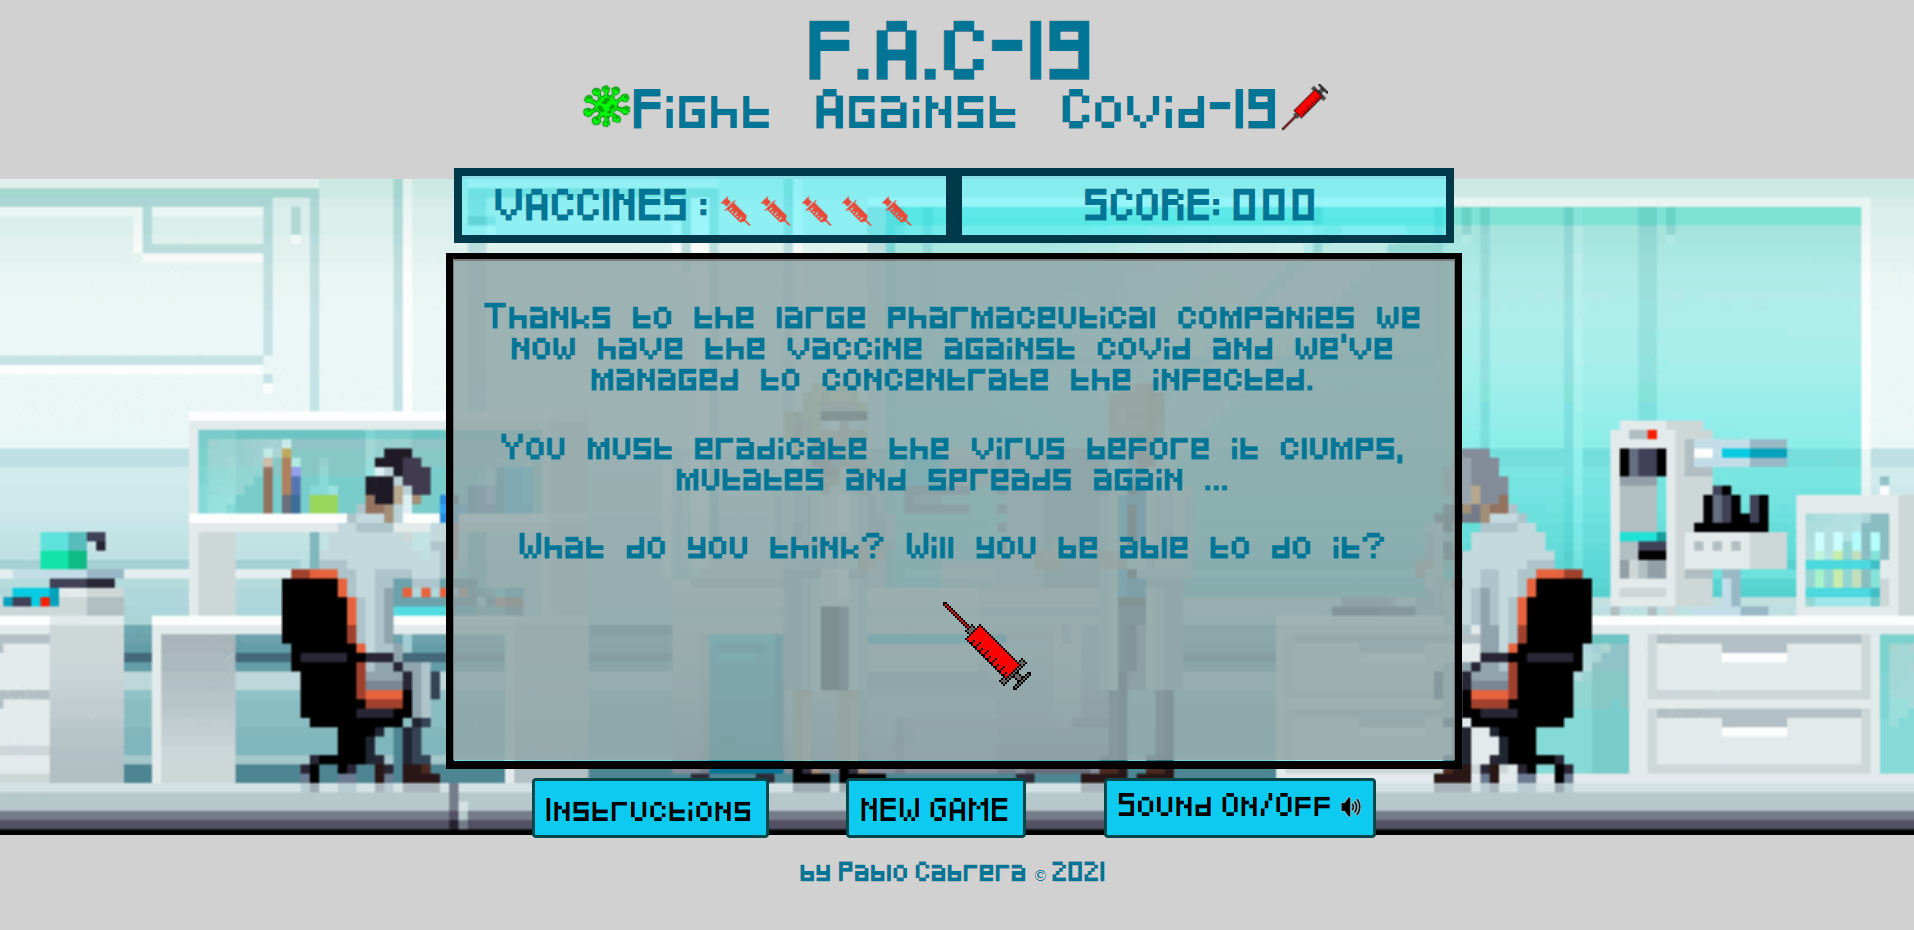
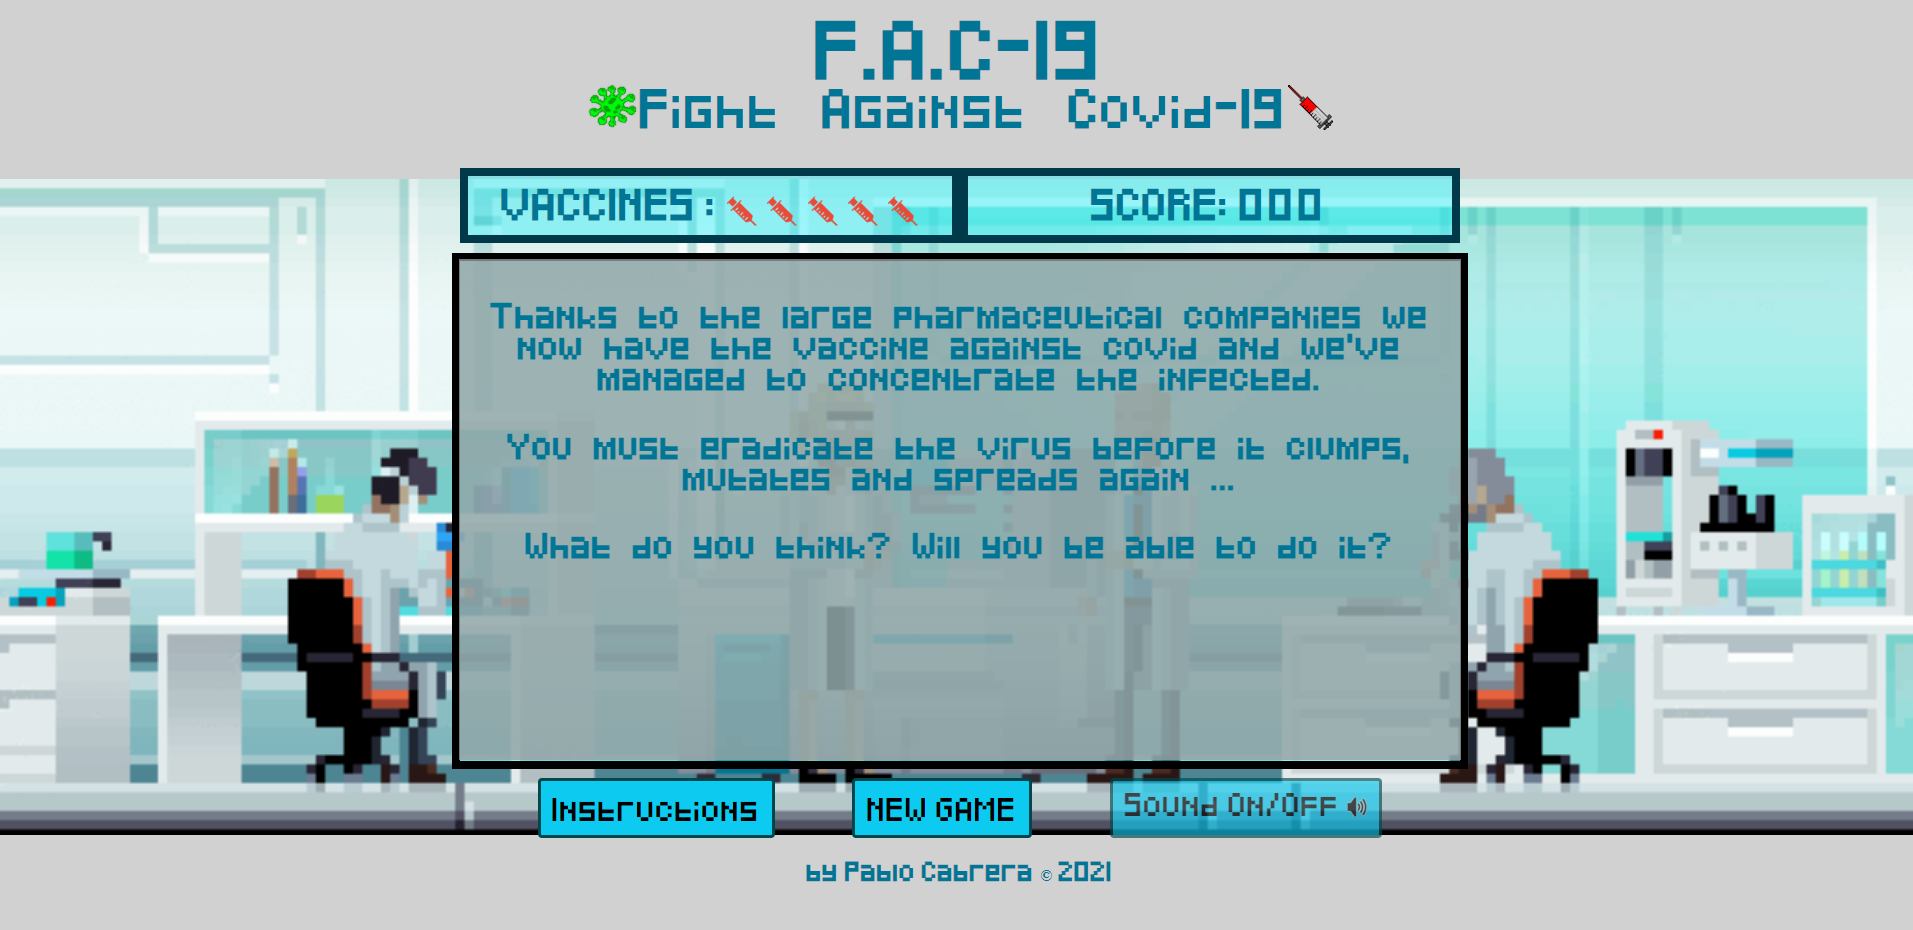
Change some smooth things on style and disabled sond button if game hasnt started

diff --git a/js/app.js b/js/app.js
@@ -34,6 +34,7 @@ window.onload = () => {
 
     const newGameButton = document.querySelector('#new-game') // NEW GAME BUTTON SELECTOR
     const soundButton = document.querySelector('#sound') // SOUND BUTTON SELECTOR FOR MUTE OR UNMUTE
+    soundButton.disabled = true
     const instructionsButton = document.querySelector('#instructions-button') // INSTRUCTIONS BUTTON SELECTOR TO DISPLAY INSTRUCTIONS
     const instructionsDiv = document.querySelector('#instructions-div') // INSTRUCTIONS DIV TO DISPLAY
     const restartButton = document.querySelector('#restart') // RESTART BUTTON TO RESTART THE GAME
@@ -47,6 +48,7 @@ window.onload = () => {
     const gameOverScreenScore = document.querySelector('#gameOver-scoreSpan') // GAMEOVER SHOW SCORE SPAN SELECTOR.
     const gameOverScreen = document.querySelector('#game-over') // GAMEOVER DIV SELECTOR.
 
+    const subtitleImage = document.querySelector('#subtitleImage') // GET THE SUBTITLE IMAGE DIV TO CHANGE IT WITH LVLS UP
     const skullImg = document.querySelector('#skull') // SKULL IMAGE SELECTOR FOR GAMEOVER.
     const lifesIMGs = document.querySelectorAll('#lifes img') // LIKES IMGS SELECTOR FOR LOOSING LIFES.
     const lifesArray = [...lifesIMGs] // COPY OF ALL IMG ELEMENTES OF LIFES.
@@ -92,8 +94,9 @@ window.onload = () => {
     const startGame = () => {
         intro.classList.add('display-none')
         instructionsDiv.classList.add("display-none")
+        soundButton.disabled = false
         loadAudios()
-        backgroundAudio.play()       
+        backgroundAudio.play()      
         updateCanvas()
     }
 
@@ -276,42 +279,49 @@ window.onload = () => {
     const changeColor = (lvl) =>{
         switch(lvl) {
             case 6:
+                subtitleImage.src = './images/Virus/blackVIRUS6.png'
                 arrayOfVirus.forEach((virus)=>{
                     virus.virusImg.src = './images/Virus/blackVIRUS6.png'
                     virus.virusDeathImage.src = './images/Virus/blackVIRUSdead6.png'
                 })
                 break
             case 5:
+                subtitleImage.src = './images/Virus/purpleVIRUS5.png'
                 arrayOfVirus.forEach((virus)=>{
                     virus.virusImg.src = './images/Virus/purpleVIRUS5.png'
                     virus.virusDeathImage.src = './images/Virus/purpleVIRUSdead5.png'
                 })
                 break
             case 4:
+                subtitleImage.src = './images/Virus/pinkVIRUS4.png'
                 arrayOfVirus.forEach((virus)=>{
                     virus.virusImg.src = './images/Virus/pinkVIRUS4.png'
                     virus.virusDeathImage.src = './images/Virus/pinkVIRUSdead4.png'
                 })
                 break
             case 3:
+                subtitleImage.src = './images/Virus/redVIRUS3.png'
                 arrayOfVirus.forEach((virus)=>{
                     virus.virusImg.src = './images/Virus/redVIRUS3.png'
                     virus.virusDeathImage.src = './images/Virus/redVIRUSdead3.png'
                 })
                 break
             case 2:
+                subtitleImage.src = './images/Virus/orangeVIRUS2.png'
                 arrayOfVirus.forEach((virus)=>{
                     virus.virusImg.src = './images/Virus/orangeVIRUS2.png'
                     virus.virusDeathImage.src = './images/Virus/orangeVIRUSdead2.png'
                 })
                 break
             case 1:
+                subtitleImage.src = './images/Virus/yellowVIRUS1.png'
                 arrayOfVirus.forEach((virus)=>{
                     virus.virusImg.src = './images/Virus/yellowVIRUS1.png'
                     virus.virusDeathImage.src = './images/Virus/yellowVIRUSdead1.png'
                 })
                 break
             default:
+                subtitleImage.src = './images/Virus/greenVIRUS.png'
                 arrayOfVirus.forEach((virus)=>{
                     virus.virusImg.src = './images/Virus/greenVIRUS.png'
                     virus.virusDeathImage.src = './images/Virus/greenVIRUSdead.png'
@@ -464,3 +474,11 @@ window.onload = () => {
         FPStoCheck = FPS
     })
 }
+
+window.addEventListener('mousedown',() => {
+    splashAudio.play()
+    mouseCursor.src ='images/syringeCLICKED.png';
+}) 
+window.addEventListener('mouseup',() => {
+    mouseCursor.src ='images/syringeUNCLICKED.png';
+})

diff --git a/index.html b/index.html
@@ -17,11 +17,11 @@
     <header>
         <h1 id="title">F.A.C-19</h1>
         <div class="subtitle">
-            <img src="./images/Virus/greenVIRUS.png" alt="Virus image">
+            <img id="subtitleImage" src="./images/Virus/greenVIRUS.png" alt="Virus image">
 
             <h2><b>F</b>ight <b>A</b>gainst <b>C</b>ovid<b>-19</b></h2>
 
-            <img src="./images/syringeRED80x80.png" alt="Vaccine image">
+            <img src="./images/syringeCLICKED.png" alt="Vaccine image">
         </div>  
     </header>
 
